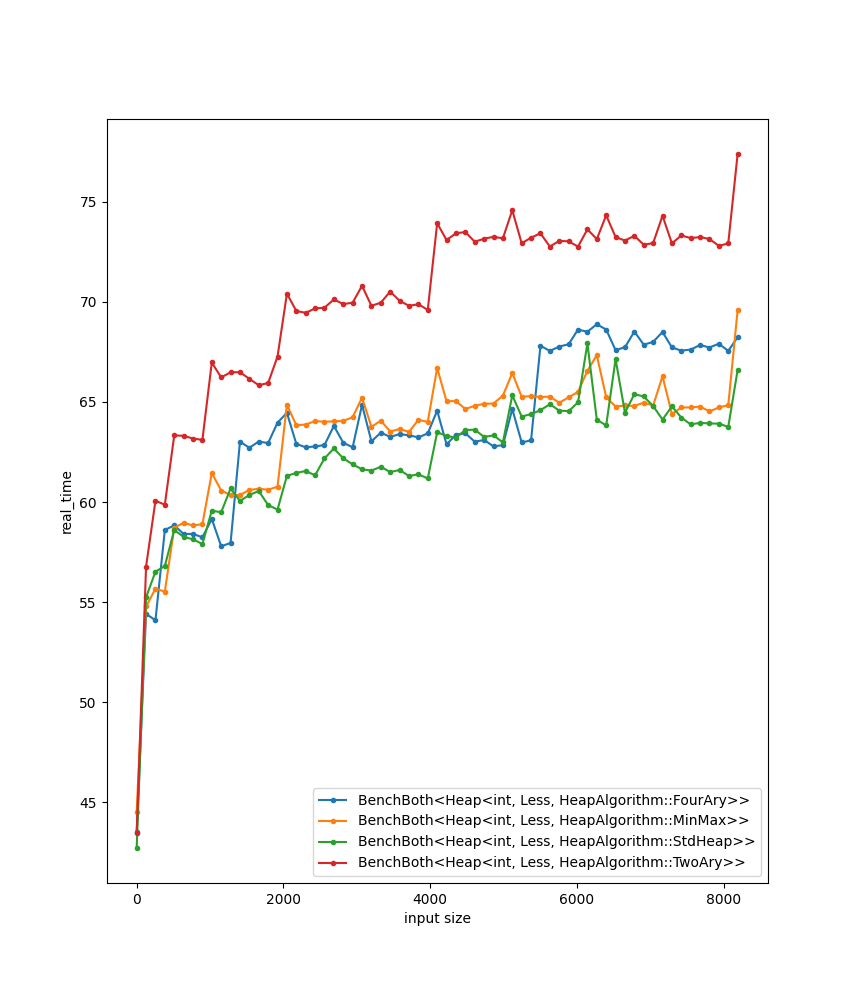
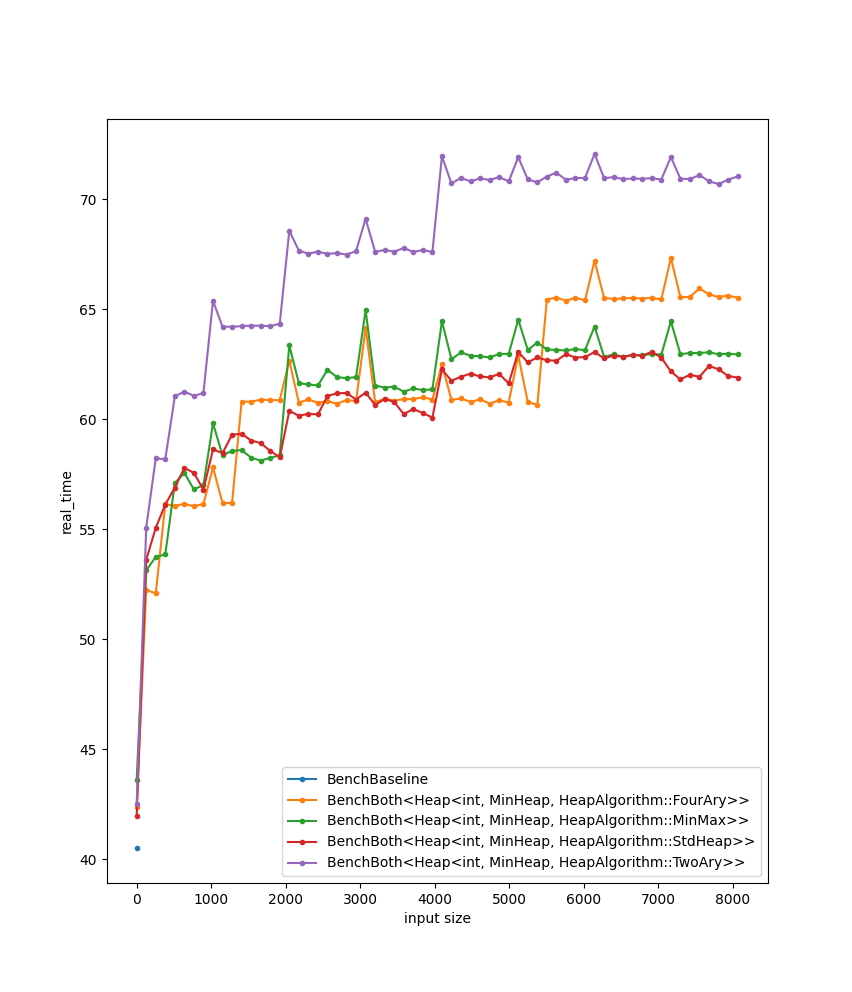
fix bug and rerun plot

diff --git a/Heap.h b/Heap.h
@@ -14,17 +14,26 @@
 
 #include "MinMaxAndDAryHeap.h"
 
-struct Less {
+struct MinHeap {
+    template<class T>
+    bool operator()(T const& x, T const& y) const {
+        return x > y;
+    }
+};
+
+struct MaxHeap {
     template<class T>
     bool operator()(T const& x, T const& y) const {
         return x < y;
     }
 };
 
-struct Greater {
+template<class Comp>
+struct SwapComp {
+    Comp comp;
     template<class T>
     bool operator()(T const& x, T const& y) const {
-        return x > y;
+        return !comp(x, y);
     }
 };
 
@@ -37,7 +46,7 @@ enum class HeapAlgorithm : uint8_t {
 #endif
 };
 
-template<class T, class Comp = Less, HeapAlgorithm algo = HeapAlgorithm::MinMax>
+template<class T, class Comp = MinHeap, HeapAlgorithm algo = HeapAlgorithm::MinMax>
 class Heap {
 public:
 
@@ -58,7 +67,7 @@ public:
             ::new(static_cast<void*>(p)) T{*it};
 
         if constexpr (algo == HeapAlgorithm::MinMax)
-            make_minmax_heap(m_data, m_data + m_size, m_comp);
+            make_minmax_heap(m_data, m_data + m_size, SwapComp<Comp>{m_comp});
 #ifdef WITH_STD_HEAP
         else if constexpr (algo == HeapAlgorithm::StdHeap)
             std::make_heap(m_data, m_data + m_size, m_comp);
@@ -78,7 +87,7 @@ public:
                 ::new(static_cast<void*>(p)) T{*first};
 
             if constexpr (algo == HeapAlgorithm::MinMax)
-                make_minmax_heap(m_data, m_data + m_size, m_comp);
+                make_minmax_heap(m_data, m_data + m_size, SwapComp<Comp>{m_comp});
 #ifdef WITH_STD_HEAP
             else if constexpr (algo == HeapAlgorithm::StdHeap)
                 std::make_heap(m_data, m_data + m_size, m_comp);
@@ -103,7 +112,7 @@ public:
             std::pop_heap(m_data, m_data + m_size--, m_comp);
         }
 #endif
-        else pop_minmax_heap_min(m_data, m_data + m_size--, m_comp);
+        else pop_minmax_heap_min(m_data, m_data + m_size--, SwapComp<Comp>{m_comp});
 
         return static_cast<T&&>(m_data[m_size]);
     }
@@ -116,12 +125,12 @@ public:
     }
 
     T extractMax() requires (algo == HeapAlgorithm::MinMax) {
-        pop_minmax_heap_max(m_data, m_data + m_size--, m_comp);
+        pop_minmax_heap_max(m_data, m_data + m_size--, SwapComp<Comp>{m_comp});
         return static_cast<T&&>(m_data[m_size]);
     }
 
     template<class... Args>
-    T& emplace(Args&& ... args) {
+    void emplace(Args&& ... args) {
         if(m_capacity == m_size)
             reserve(computeEmplaceCapacity());
 
@@ -134,10 +143,7 @@ public:
             std::push_heap(m_data, m_data + m_size, m_comp);
         }
 #endif
-        else push_minmax_heap(m_data, m_data + m_size, m_comp);
-
-
-        return m_data[m_size - 1];
+        else push_minmax_heap(m_data, m_data + m_size, SwapComp<Comp>{m_comp});
     }
 
     T dummy(T x){

diff --git a/main.cpp b/main.cpp
@@ -5,10 +5,9 @@
 
 #include <benchmark/benchmark.h>
 #include <random>
-
+#include <iostream>
 
 static void BenchBaseline(benchmark::State& state) {
-    std::vector<int> elements(state.range());
     std::default_random_engine engine;
     std::uniform_int_distribution<int> uniform;
     for (auto _ : state) {
@@ -26,15 +25,15 @@ static void BenchBoth(benchmark::State& state) {
     h.insert(elements.begin(), elements.end());
     for (auto _ : state) {
         benchmark::DoNotOptimize(h.extractMin());
-        benchmark::DoNotOptimize(h.emplace(uniform(engine)));
+        h.emplace(uniform(engine));
     }
 }
 
 
-BENCHMARK_TEMPLATE(BenchBoth, Heap<int, Less, HeapAlgorithm::StdHeap>)->DenseRange(0, 1<<13, 1 << 7);
-BENCHMARK_TEMPLATE(BenchBoth, Heap<int, Less, HeapAlgorithm::TwoAry>)->DenseRange(0, 1<<13, 1 << 7);
-BENCHMARK_TEMPLATE(BenchBoth, Heap<int, Less, HeapAlgorithm::FourAry>)->DenseRange(0, 1<<13, 1 << 7);
-BENCHMARK_TEMPLATE(BenchBoth, Heap<int, Less, HeapAlgorithm::MinMax>)->DenseRange(0, 1<<13, 1 << 7);
+BENCHMARK_TEMPLATE(BenchBoth, Heap<int, MinHeap, HeapAlgorithm::StdHeap>)->DenseRange(1, 1<<13, 128);
+BENCHMARK_TEMPLATE(BenchBoth, Heap<int, MinHeap, HeapAlgorithm::TwoAry>)->DenseRange(1, 1<<13, 128);
+BENCHMARK_TEMPLATE(BenchBoth, Heap<int, MinHeap, HeapAlgorithm::FourAry>)->DenseRange(1, 1<<13, 128);
+BENCHMARK_TEMPLATE(BenchBoth, Heap<int, MinHeap, HeapAlgorithm::MinMax>)->DenseRange(1, 1<<13, 128);
 
 BENCHMARK(BenchBaseline);
 
